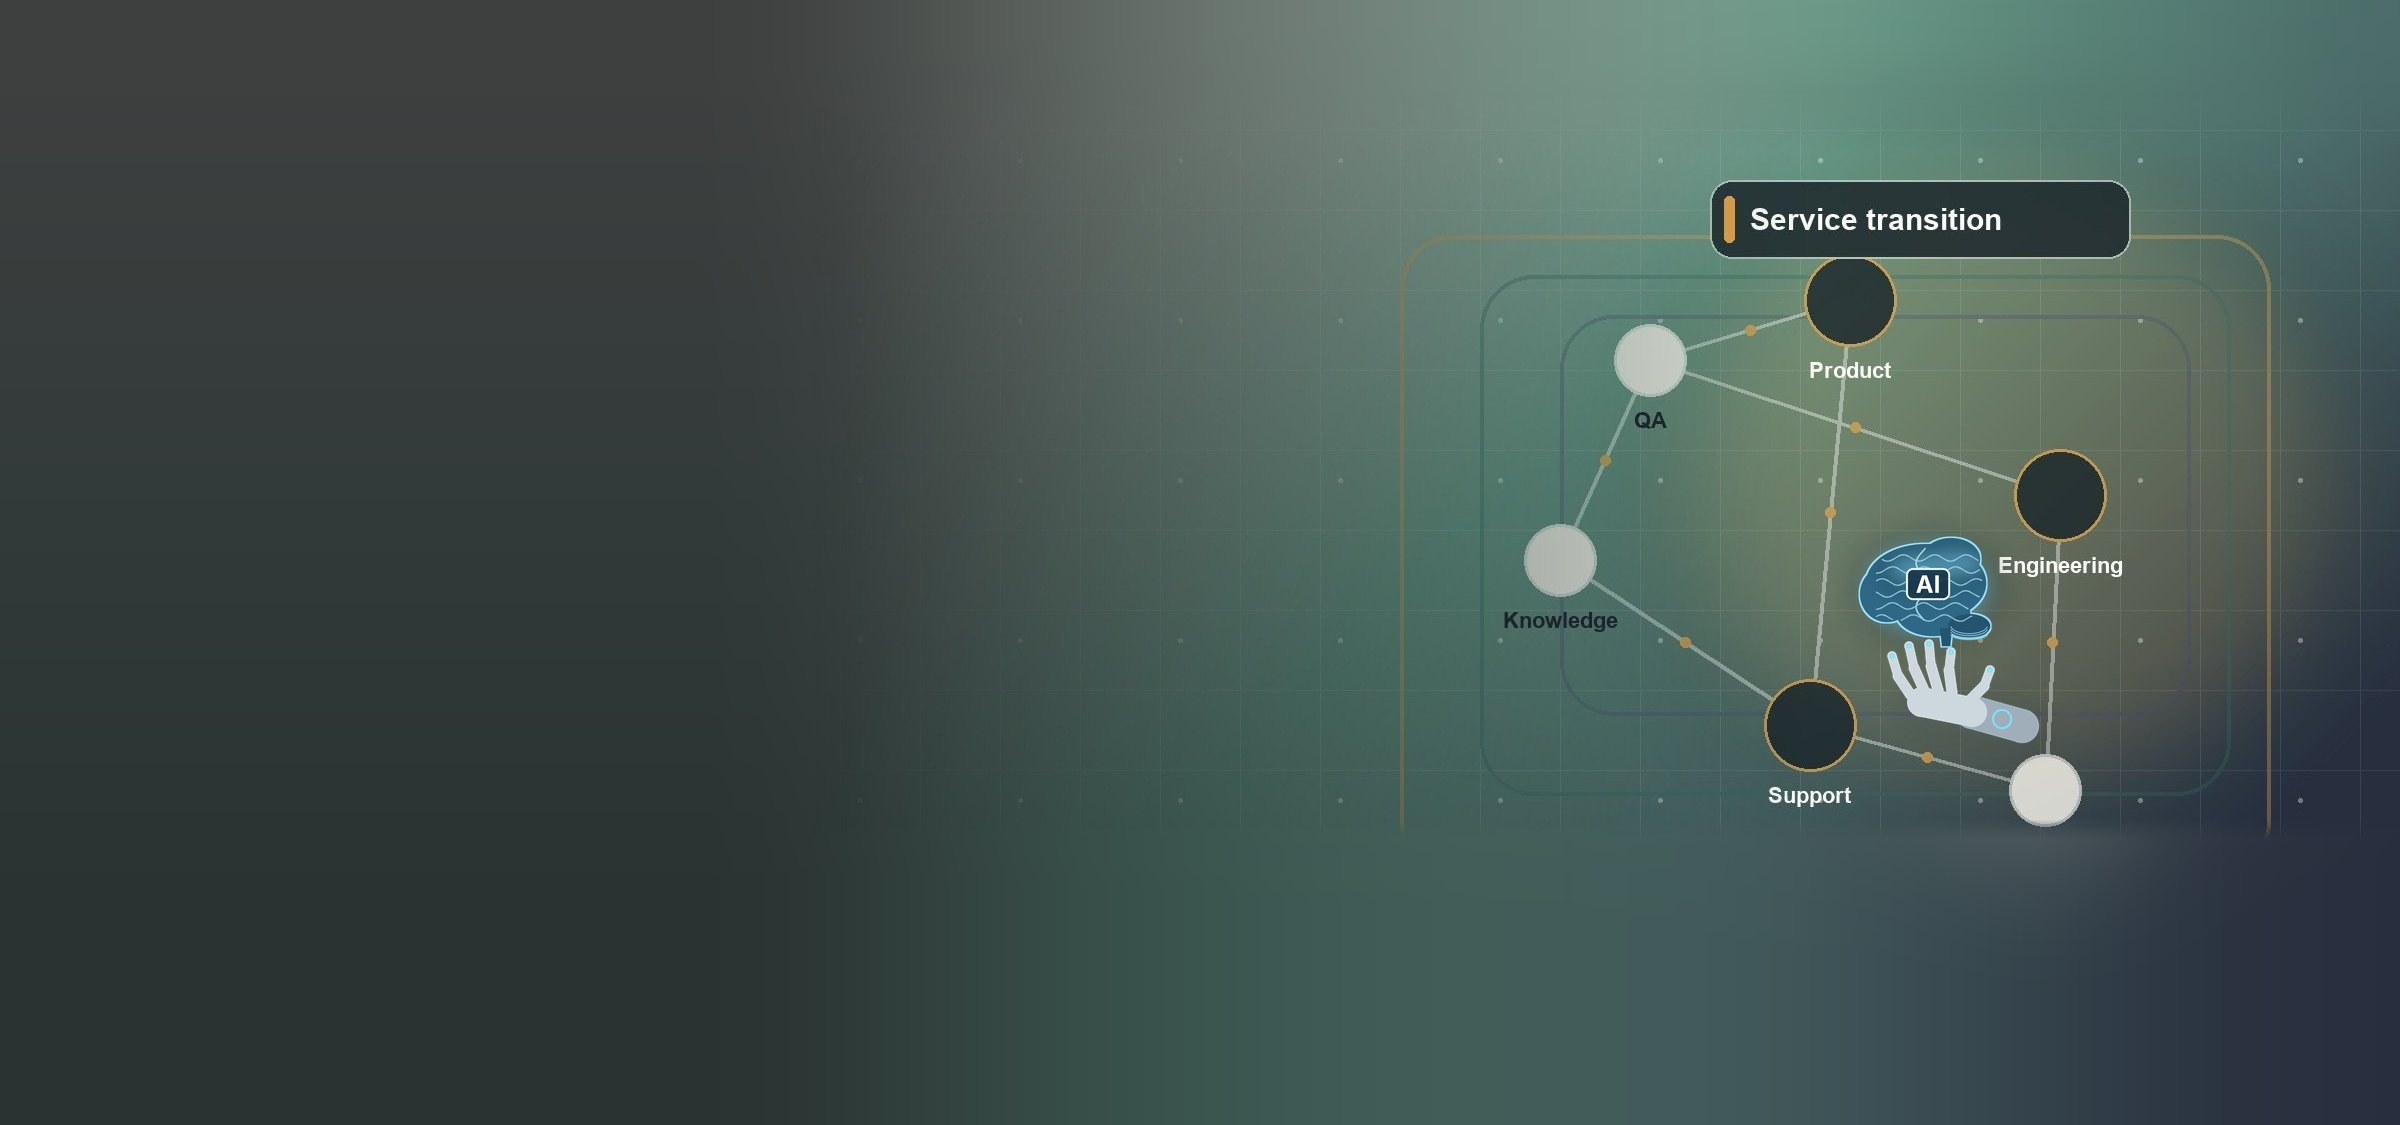
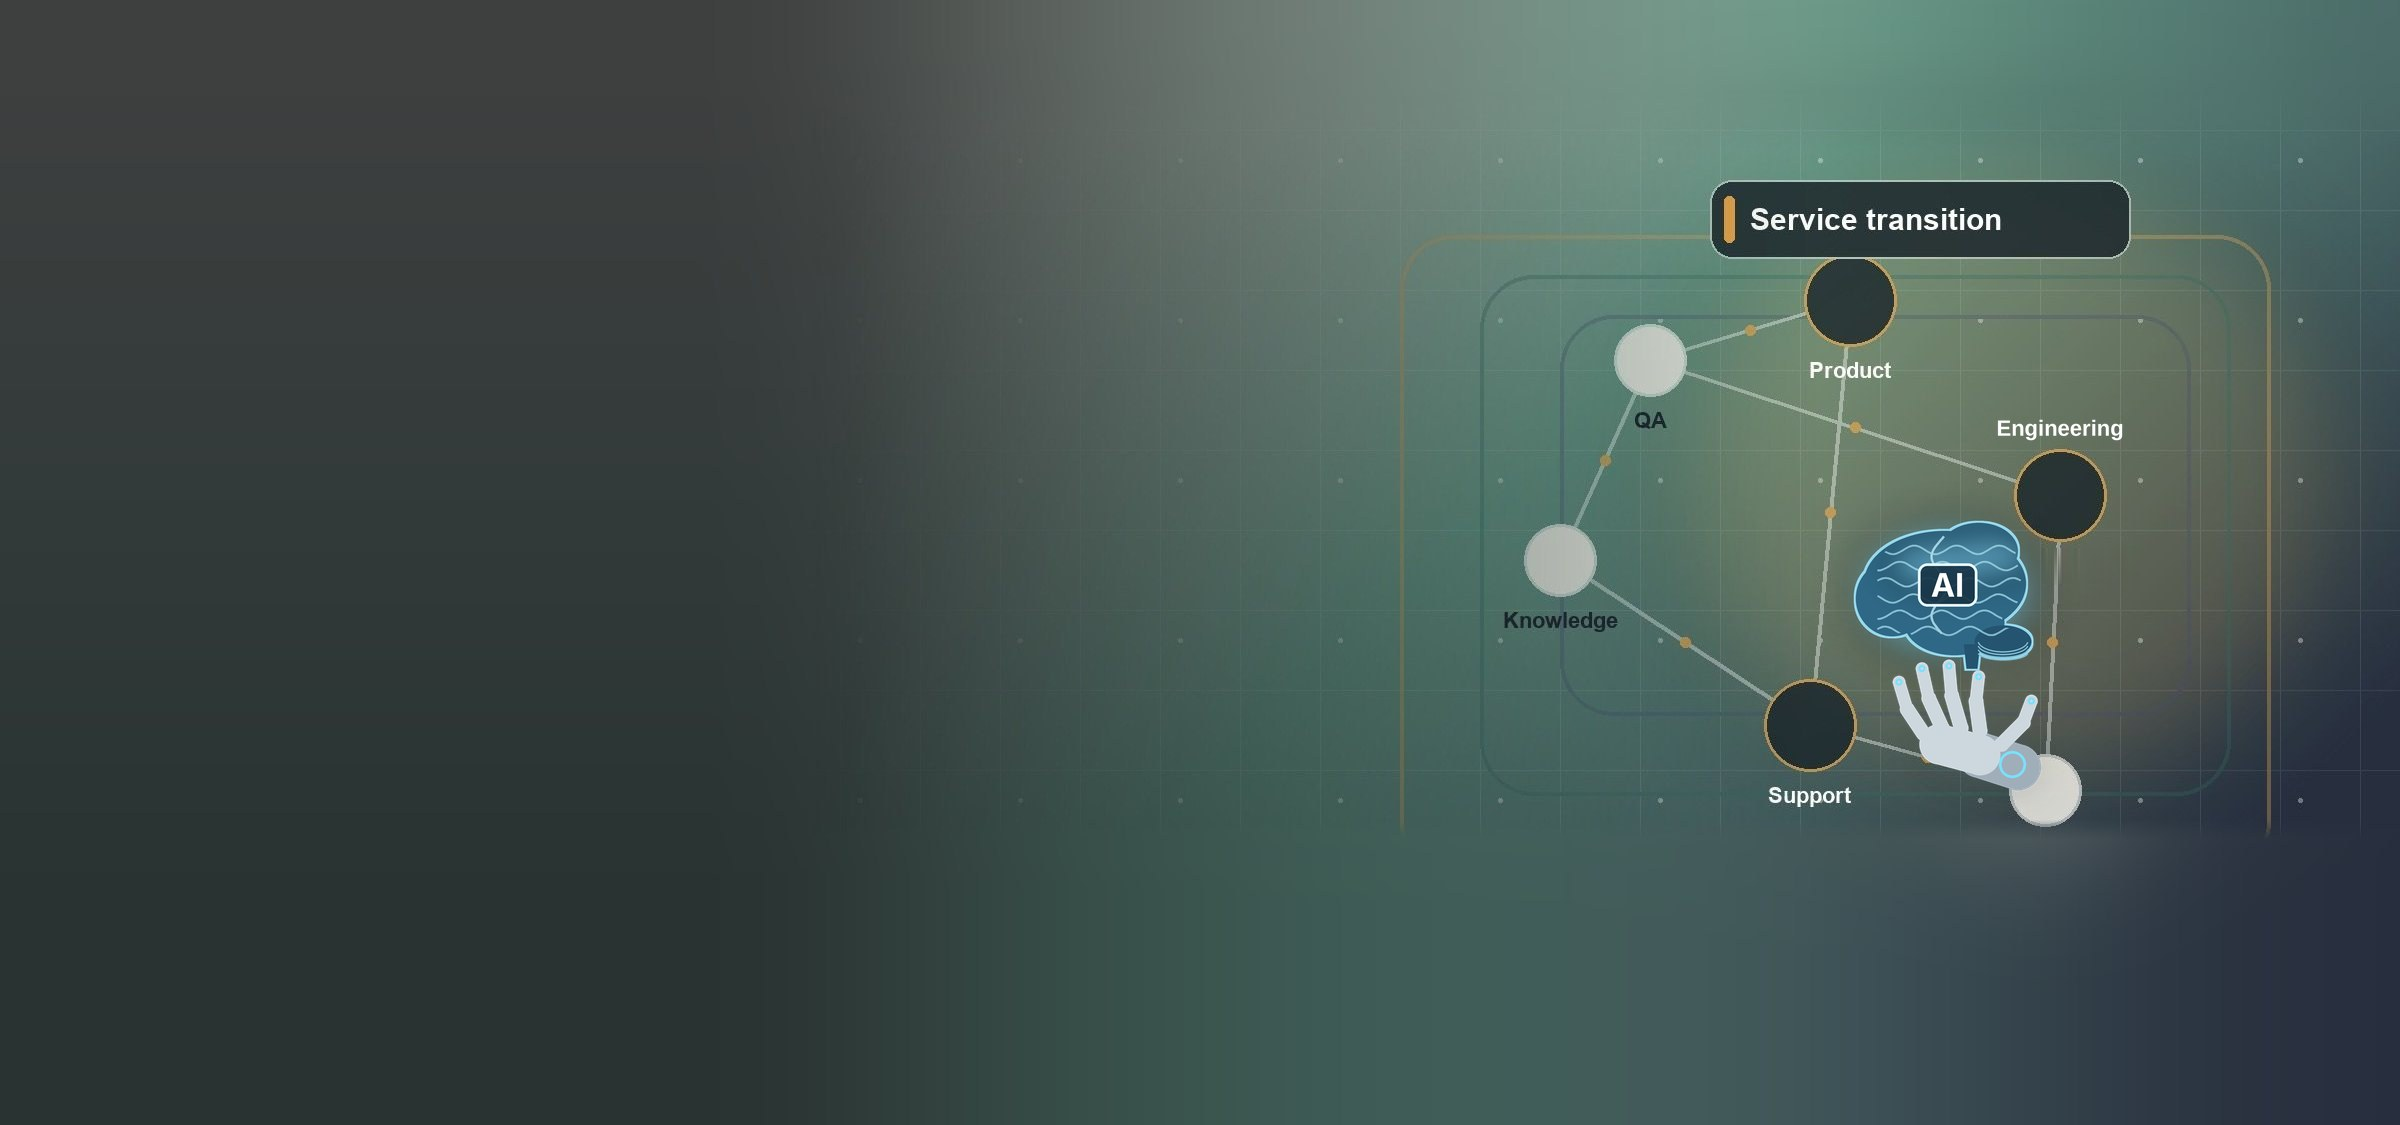
Enlarge the AI illustration on desktop and show it in the mobile hero (#43)
Claude-Session: https://claude.ai/code/session_01UXRfMG2tLt81kCzNTg6CnY

Changed region(s): [[0.75, 0.4667, 0.875, 0.7156], [0.8438, 0.3733, 0.875, 0.4044]]

diff --git a/index.html b/index.html
@@ -107,6 +107,8 @@
             globally enabled operations.
           </p>
 
+          <img class="hero-ai" src="assets/ai-brain-hand.png" alt="" width="380" height="490" aria-hidden="true">
+
           <div class="hero-actions" aria-label="Primary actions">
             <a class="button button-primary" href="#contact">Let's connect</a>
             <a class="button button-secondary" href="assets/Ionut-Marius-Dutan-CV-2026.pdf">View CV</a>

diff --git a/styles.css b/styles.css
@@ -224,6 +224,10 @@ a {
   pointer-events: none;
 }
 
+.hero-ai {
+  display: none;
+}
+
 .hero-content {
   position: relative;
   z-index: 1;
@@ -1132,6 +1136,13 @@ a {
   .hero-content {
     padding-top: 60px;
     padding-bottom: 30px;
+  }
+
+  .hero-ai {
+    display: block;
+    width: min(210px, 56%);
+    height: auto;
+    margin: 4px auto 18px;
   }
 
   .hero-persona {
